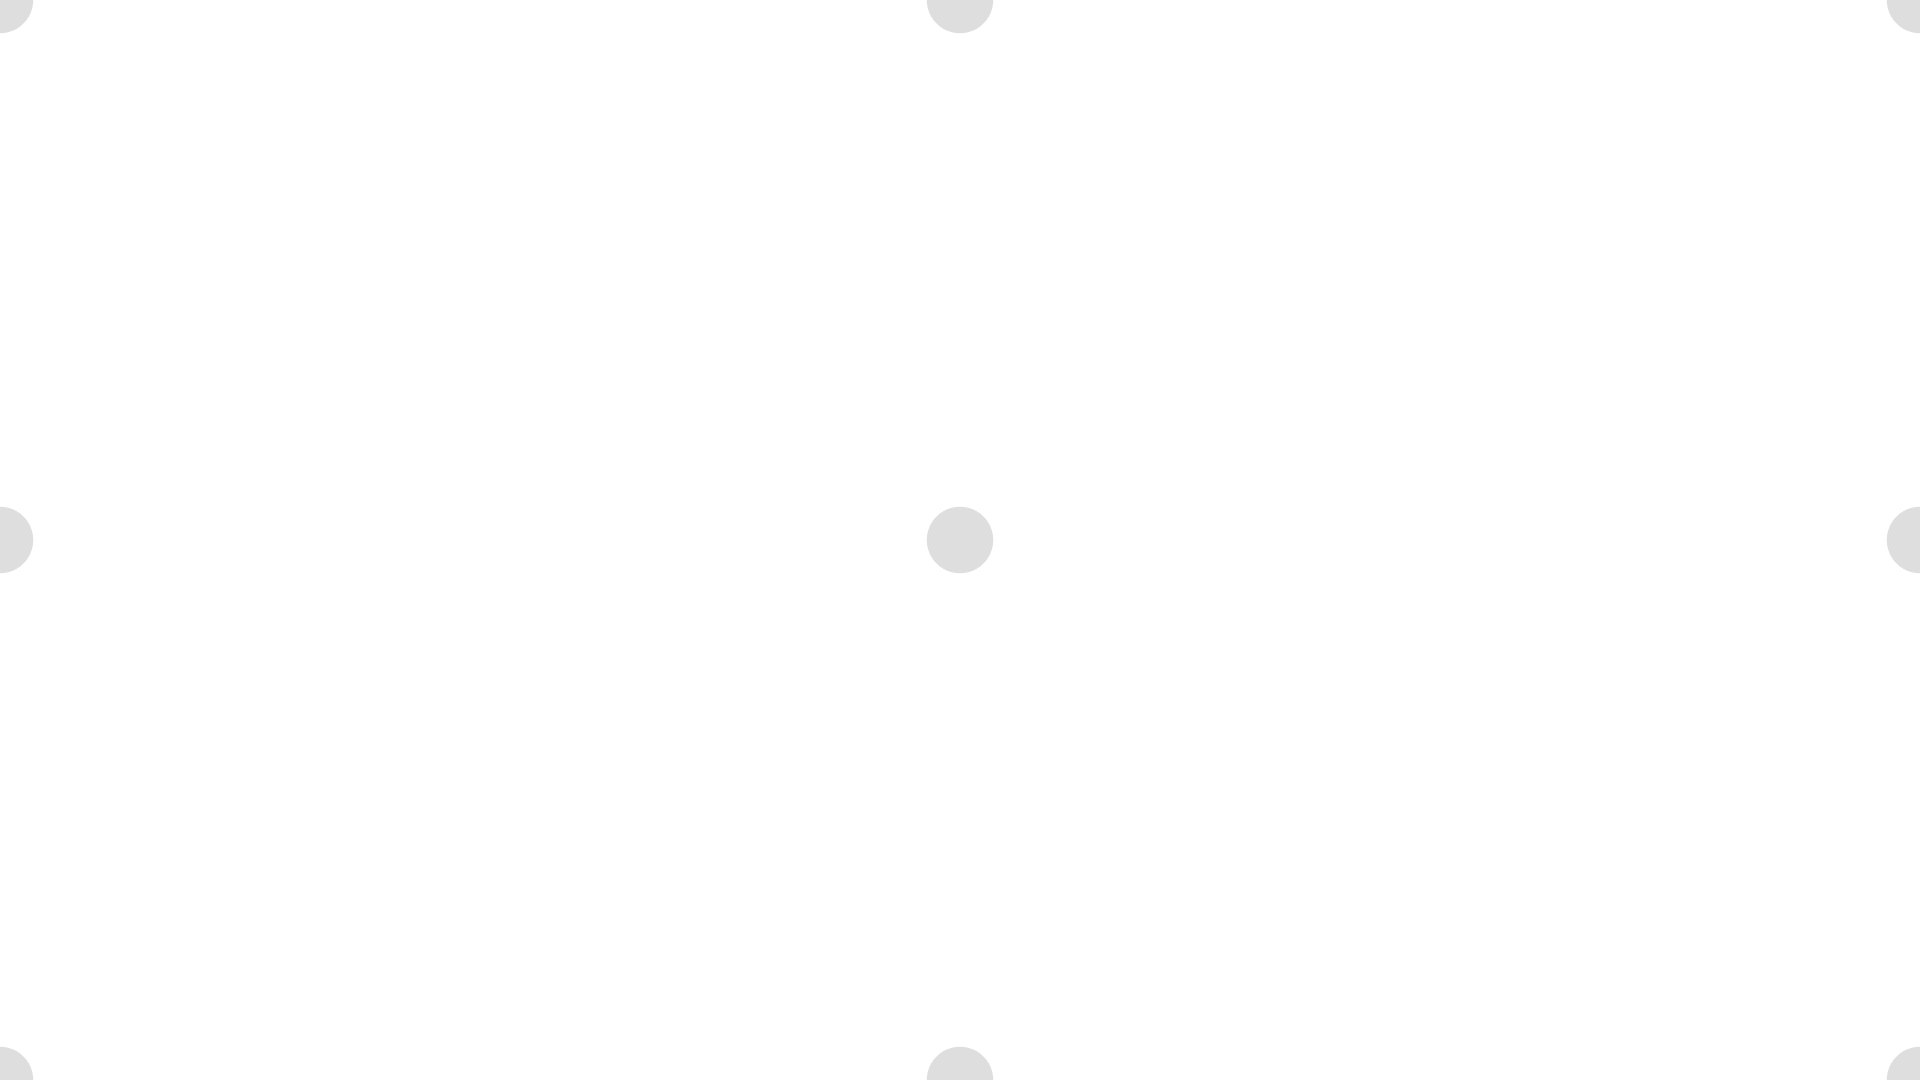
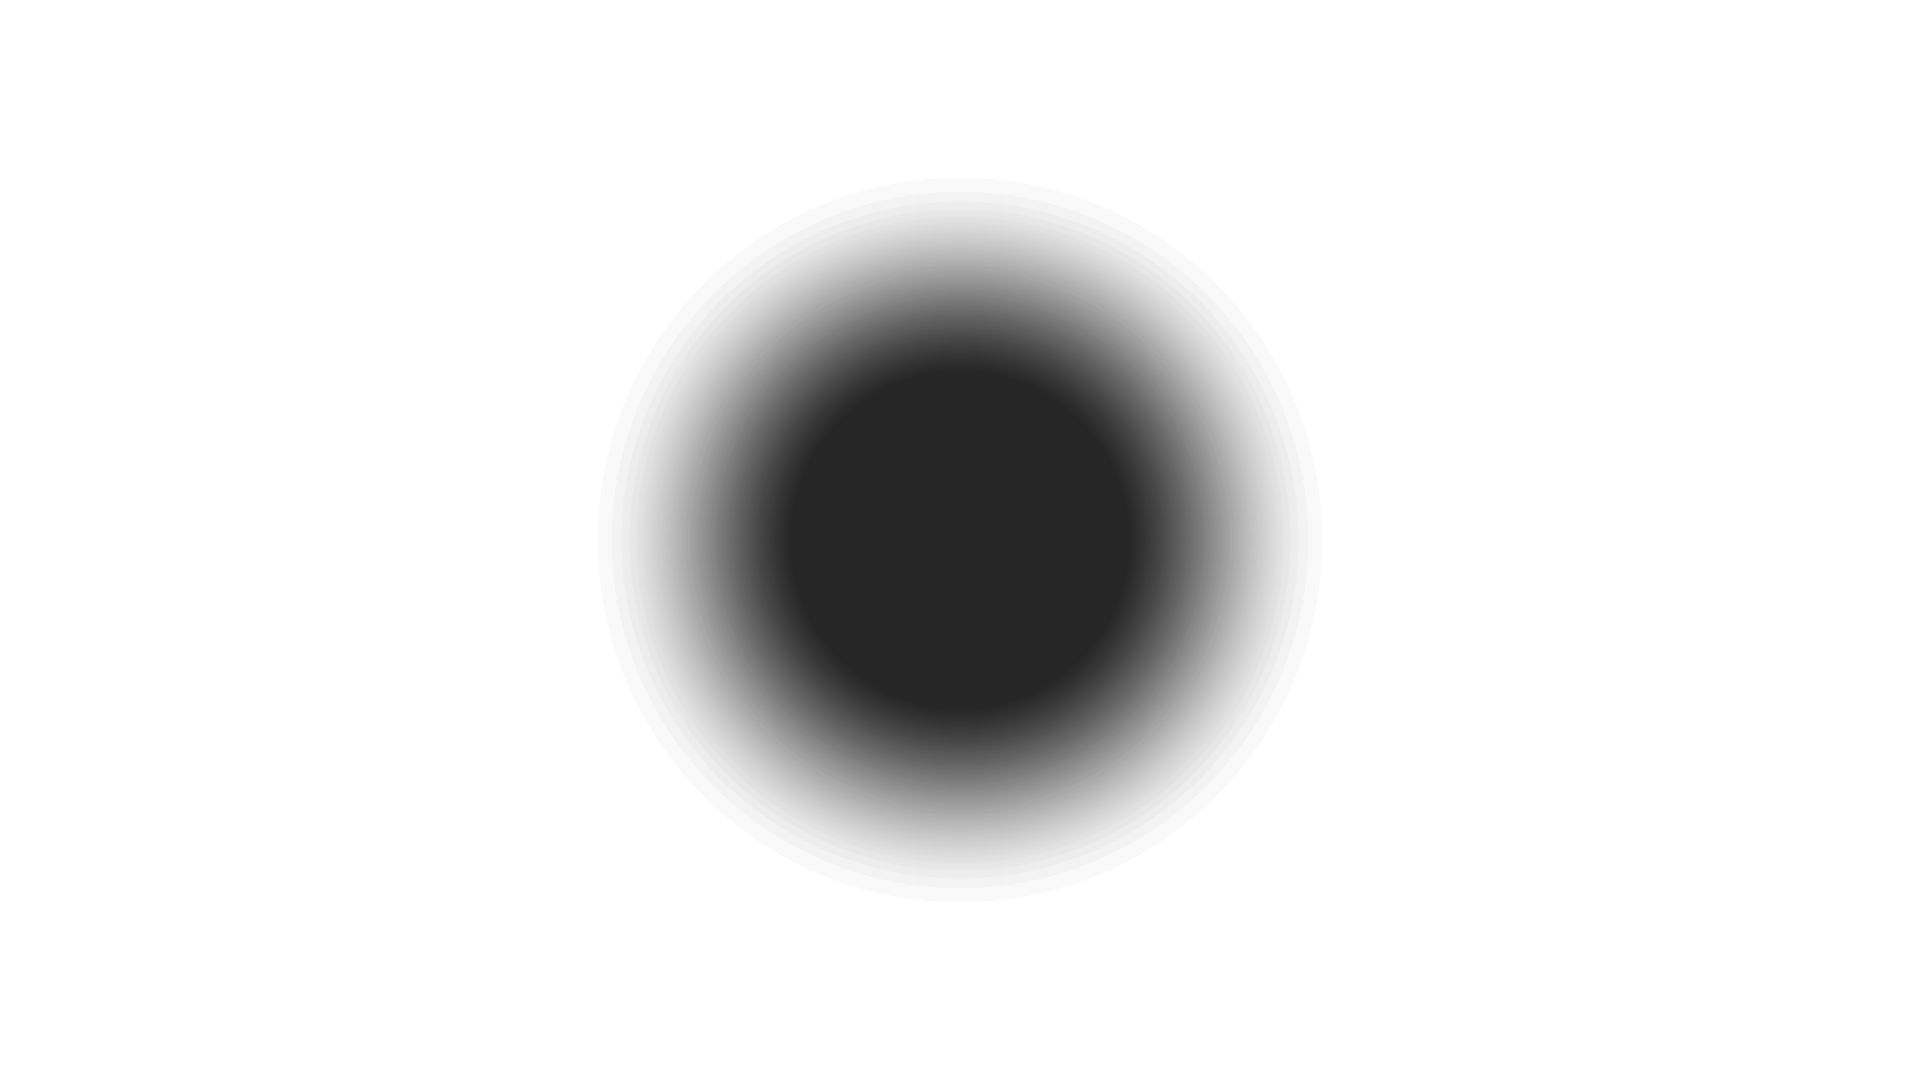
feat: lights

diff --git a/Purity2D/Purity2D.cpp b/Purity2D/Purity2D.cpp
@@ -8,6 +8,7 @@
 #include "libs/hudRenderer.hpp"
 #include "libs/exampleScript.hpp"
 #include "libs/fowRenderer.hpp"
+#include "libs/lightRenderer.hpp"
 
 #define TILE_SIZE 16
 
@@ -45,7 +46,7 @@ int main() {
 	gs->addScene(testScene);
 
 	Asset* fov = new Asset("fov");
-	fov->load("fow4.png");
+	fov->load("fow3.png");
 
 	Asset* fd = new Asset("floor/fd");
 	fd->load("floor/f-d.jpg");
@@ -86,13 +87,12 @@ int main() {
 	Asset* bar = new Asset("bar");
 	bar->load("bar.png");
 
-	vector<GameObject*> grassTiles;
+	Asset* light = new Asset("light");
+	light->load("light.png");
 
 	// Creating Game Objects
 
-
-
-	for (int j = 0; j < 5; j++) {
+	for (int j = 0; j < 50; j++) {
 		int tunnel = j*6;
 		int line = 0;
 		mainScene->addGameObject(createTile(line, tunnel + 0, wlu));
@@ -109,7 +109,7 @@ int main() {
 		mainScene->addGameObject(createTile(line, tunnel + 4, wr));
 		line++;
 
-		for (int i = 0; i < 5; i++) {
+		for (int i = 0; i < 50; i++) {
 			mainScene->addGameObject(createTile(line, tunnel + 0, wl));
 			mainScene->addGameObject(createTile(line, tunnel + 1, fl));
 			mainScene->addGameObject(createTile(line, tunnel + 2, fc));
@@ -132,6 +132,18 @@ int main() {
 		mainScene->addGameObject(createTile(line, tunnel + 4, wrd));
 		line++;
 	}
+
+	GameObject* lightg = new GameObject();
+	lightg->addComponent(light);
+	lightg->addComponent(new Transform(Vector2D(200, 200), Vector2D(0, 0), Rotation(0)));
+	lightg->addComponent(new LightRenderer());
+	mainScene->addGameObject(lightg);
+
+	GameObject* lightg2 = new GameObject();
+	lightg2->addComponent(light);
+	lightg2->addComponent(new Transform(Vector2D(200, 200), Vector2D(200, 200), Rotation(0)));
+	lightg2->addComponent(new LightRenderer());
+	mainScene->addGameObject(lightg2);
 
 
 	/*mainScene->addGameObject(createHud(0, 0, cam->getSize().getX(), cam->getSize().getY(), fov));*/

diff --git a/Purity2D/libs/fowRenderer.hpp b/Purity2D/libs/fowRenderer.hpp
@@ -6,6 +6,7 @@
 class FowRenderer: public ImageRenderer {
 	ALLEGRO_BITMAP* bmp;
 	Vector2D bmpSize;
+	ALLEGRO_BITMAP* screen;
 public:
 	/*ALLEGRO_BITMAP* getImage(Vector2D vec) {
 		return bmp;
@@ -22,30 +23,28 @@ public:
 	void onStart() {
 		bmpSize = this->transform->getScale();
 		bmp = al_create_bitmap(bmpSize.getX(), bmpSize.getY());
-		ALLEGRO_BITMAP* screen = al_get_target_bitmap();
+		screen = al_get_target_bitmap();
 	}
 
 	void onUpdate() {
+		al_set_target_bitmap(bmp);
+		al_clear_to_color(al_map_rgba(0, 0, 0, 255));
+		al_set_blender(ALLEGRO_DEST_MINUS_SRC, ALLEGRO_ONE, ALLEGRO_ONE);
 		ImageRenderer::onUpdate();
 	}
 
 	void onRender() {
-		ALLEGRO_BITMAP* screen = al_get_target_bitmap();
-		al_set_target_bitmap(bmp);
-		al_clear_to_color(al_map_rgba(0, 0, 0, 190));
-		al_set_blender(ALLEGRO_DEST_MINUS_SRC, ALLEGRO_ONE, ALLEGRO_ONE);
-		drawOnLightMap(getAsset());
-		al_set_target_bitmap(screen);
-		al_set_blender(ALLEGRO_ADD, ALLEGRO_ONE, ALLEGRO_INVERSE_ALPHA);
-
-		Transform current = calculateNewTransform();
-		renderImage(bmp, current, bmpSize);
-	}
-
-	void drawOnLightMap(Asset* asset) {
+		Asset* asset = getAsset();
 		ALLEGRO_BITMAP* assetBitmap = asset->getImage();
 		Vector2D assetSize = asset->getImageSize();
 		al_draw_scaled_bitmap(assetBitmap, 0, 0, assetSize.getX(), assetSize.getY(), 0, 0, bmpSize.getX(), bmpSize.getY(), 0);
+	}
+
+	void onUpdateAlpha() {
+		Transform current = calculateNewTransform();
+		al_set_target_bitmap(screen);
+		al_set_blender(ALLEGRO_ADD, ALLEGRO_ONE, ALLEGRO_INVERSE_ALPHA);
+		renderImage(bmp, current, bmpSize);
 	}
 
 	void onDelete() {

diff --git a/Purity2D/libs/scene.hpp b/Purity2D/libs/scene.hpp
@@ -11,7 +11,6 @@ class Scene {
 private:
 	string name;
 	vector<GameObject*> objects;
-	vector<GameObject*> lights;
 	Camera* camera;
 	GameObject* fog;
 	ALLEGRO_BITMAP* screen;
@@ -46,10 +45,11 @@ public:
 		for (GameObject* i : objects) {
 			i->onUpdate();
 		}
-		for (GameObject* i : lights) {
-			i->onUpdate();
-		}
 		fog->onUpdate();
+		for (GameObject* i : objects) {
+			i->onUpdateAlpha();
+		}
+		fog->onUpdateAlpha();
 	}
 
 	/*!	\brief Lifecycle hook called when Scene is destroyed	*/
@@ -78,21 +78,6 @@ public:
 		}
 	}
 
-	/*!	\brief Add Light to Scene \see GameObject	*/
-	void addLight(GameObject* object) {
-		lights.push_back(object);
-	}
-
-	/*!	\brief Remove Light from Scene \see GameObject	*/
-	void removeLight(GameObject* object) {
-		for (GameObject* i : lights) {
-			if (i == object) {
-				i->onDelete();
-				free(i);
-			}
-		}
-	}
-
 	/*!	\brief Returns Camera of Scene \see Camera	*/
 	Camera * getCamera() {
 		return camera;
@@ -105,6 +90,4 @@ public:
 		this->fog->onStart();
 	}
 	
-
-
 };

diff --git a/Purity2D/libs/lightRenderer.hpp b/Purity2D/libs/lightRenderer.hpp
@@ -1,0 +1,16 @@
+#pragma once
+#include "imageRenderer.hpp"
+#include "gameState.hpp"
+class LightRenderer : public ImageRenderer {
+	void onUpdateAlpha() {
+		Asset* asset = getAsset();
+		ALLEGRO_BITMAP* bmp = asset->getImage();
+		Transform current = calculateLight();
+		renderImage(bmp, current, asset->getImageSize());
+	}
+	Transform calculateLight() {
+		Vector2D newPosition = (transform->getPosition() - GameState::get()->getViewPosition());
+		Vector2D newScale = transform->getScale() * 3;
+		return Transform(newScale, newPosition, transform->getRotation());
+	}
+};

diff --git a/Purity2D/libs/gameObject.hpp b/Purity2D/libs/gameObject.hpp
@@ -86,6 +86,16 @@ public:
 	}
 
 	/*!
+		@copydoc Component::onUpdate(Component*)
+		\see Component
+	*/
+	void onUpdateAlpha() {
+		for (Component* i : components) {
+			i->onUpdateAlpha();
+		}
+	}
+
+	/*!
 		@copydoc Component::onStart(Component*)
 		\see Component
 	*/
